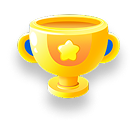
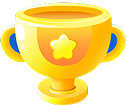
chore: update assets and UI components

diff --git a/js/ui/widgets/CrownPigWidget.js b/js/ui/widgets/CrownPigWidget.js
@@ -6,19 +6,33 @@ var Theme = require('../Theme.js');
 var { SCREEN_WIDTH } = require('../../render.js');
 
 // 布局常量（相对屏幕右上角）
-var TROPHY_SIZE = 42;
-var TROPHY_TOP = 84;
+var TROPHY_SIZE = 44;
+var TROPHY_TOP = 79;
 var TROPHY_RIGHT = 20;
-var STEP_BG_W = 54;
+var STEP_BG_W = 60;
 var STEP_BG_H = 24;
 var STEP_BG_TOP = 120;
 var STEP_BG_RIGHT = 11;
+var STEP_BG_RADIUS = 12;
+
+// 圆角矩形路径（兼容微信小游戏 canvas，不用 ctx.roundRect）
+function roundRect(ctx, x, y, w, h, r) {
+  ctx.beginPath();
+  ctx.moveTo(x + r, y);
+  ctx.lineTo(x + w - r, y);
+  ctx.arcTo(x + w, y, x + w, y + r, r);
+  ctx.lineTo(x + w, y + h - r);
+  ctx.arcTo(x + w, y + h, x + w - r, y + h, r);
+  ctx.lineTo(x + r, y + h);
+  ctx.arcTo(x, y + h, x, y + h - r, r);
+  ctx.lineTo(x, y + r);
+  ctx.arcTo(x, y, x + r, y, r);
+  ctx.closePath();
+}
 
 // 奖杯图片路径
 var IMG_ACTIVE = 'assets/images/levels/leftStep_1.png';
 var IMG_INACTIVE = 'assets/images/levels/leftStep_2.png';
-var IMG_STEP_BG = 'assets/images/levels/leftStep_num.png';
-
 function CrownPigWidget(opts) {
   UIComponent.call(this, {
     x: 0, y: 0,
@@ -43,11 +57,6 @@ function CrownPigWidget(opts) {
   this._imgInactive.src = IMG_INACTIVE;
   this._inactiveLoaded = false;
   this._imgInactive.onload = (function () { this._inactiveLoaded = true; }).bind(this);
-
-  this._imgStepBg = wx.createImage();
-  this._imgStepBg.src = IMG_STEP_BG;
-  this._bgLoaded = false;
-  this._imgStepBg.onload = (function () { this._bgLoaded = true; }).bind(this);
 }
 
 CrownPigWidget.prototype = Object.create(UIComponent.prototype);
@@ -81,6 +90,12 @@ CrownPigWidget.prototype.render = function (ctx) {
   // === 奖杯图标 ===
   // 激活条件：总步数尚未超过规定步数（steps <= crownSteps）
   // 超过后在下一帧变灰（steps > crownSteps）
+  // 奖杯 drop-shadow: 0px 4px 4px rgba(0,0,0,0.25)
+  ctx.shadowColor = 'rgba(0, 0, 0, 0.25)';
+  ctx.shadowBlur = 4;
+  ctx.shadowOffsetX = 0;
+  ctx.shadowOffsetY = 4;
+
   if (this._steps <= this._crownSteps) {
     // 激活状态
     if (this._activeLoaded) {
@@ -93,10 +108,61 @@ CrownPigWidget.prototype.render = function (ctx) {
     }
   }
 
-  // 底框背景图
-  if (this._bgLoaded) {
-    ctx.drawImage(this._imgStepBg, bgX, bgY, STEP_BG_W, STEP_BG_H);
+  // 清除阴影，避免影响后续渲染
+  ctx.shadowColor = 'transparent';
+  ctx.shadowBlur = 0;
+  ctx.shadowOffsetX = 0;
+  ctx.shadowOffsetY = 0;
+
+  // === 步数进度条 ===
+  var remaining = this._crownSteps - this._steps;
+  if (remaining < 0) remaining = 0;
+  var progressRatio = this._crownSteps > 0 ? remaining / this._crownSteps : 0;
+  var fillW = Math.floor(STEP_BG_W * progressRatio);
+
+  ctx.save();
+
+  // === 底框（圆角 12px，仅边框无填充）===
+  roundRect(ctx, bgX, bgY, STEP_BG_W, STEP_BG_H, STEP_BG_RADIUS);
+  ctx.strokeStyle = '#733C29';
+  ctx.lineWidth = 1;
+  ctx.stroke();
+
+  // === 前置填充条（右对齐，从左往右缩短，移动端圆角）===
+  if (fillW > 0) {
+    var fillX = bgX + STEP_BG_W - fillW;  // 右对齐，左端 ← 移动
+    var fillRadius = Math.min(STEP_BG_RADIUS, Math.floor(fillW / 2));
+
+    // clip 到整个底框的圆角区域（右端从 clip 获得圆角）
+    roundRect(ctx, bgX, bgY, STEP_BG_W, STEP_BG_H, STEP_BG_RADIUS);
+    ctx.clip();
+
+    // 前置填充条底色（左端自带圆角）
+    if (fillRadius > 0) {
+      roundRect(ctx, fillX, bgY, fillW, STEP_BG_H, fillRadius);
+      ctx.fillStyle = '#FF9D9D';
+      ctx.fill();
+    } else {
+      ctx.fillStyle = '#FF9D9D';
+      ctx.fillRect(fillX, bgY, fillW, STEP_BG_H);
+    }
+
+    // 顶部 inner shadow（暗部渐变）
+    var topGrad = ctx.createLinearGradient(fillX, bgY, fillX, bgY + 6);
+    topGrad.addColorStop(0, 'rgba(103, 0, 0, 0.30)');
+    topGrad.addColorStop(1, 'rgba(103, 0, 0, 0)');
+    ctx.fillStyle = topGrad;
+    ctx.fillRect(fillX, bgY, fillW, 6);
+
+    // 底部 inner highlight（亮部渐变）
+    var btmGrad = ctx.createLinearGradient(fillX, bgY + STEP_BG_H - 4, fillX, bgY + STEP_BG_H);
+    btmGrad.addColorStop(0, 'rgba(255, 255, 255, 0)');
+    btmGrad.addColorStop(1, 'rgba(255, 255, 255, 0.25)');
+    ctx.fillStyle = btmGrad;
+    ctx.fillRect(fillX, bgY + STEP_BG_H - 4, fillW, 4);
   }
+
+  ctx.restore();
 
   ctx.font = '12px ' + Theme.font.family;
   ctx.fillStyle = '#733C29';

diff --git a/js/core/GameEngine.js b/js/core/GameEngine.js
@@ -84,44 +84,53 @@ class GameEngine {
     // 加载自定义字体
     var _loadFont = function() {
       if (typeof wx === 'undefined') { console.log('[Font] wx 不可用'); return; }
-      if (!wx.loadFont)          { console.log('[Font] wx.loadFont 不可用'); return; }
+      if (!wx.loadFont) { console.log('[Font] wx.loadFont 不可用'); return; }
       if (!wx.getFileSystemManager) { console.log('[Font] FileSystemManager 不可用'); return; }
 
-      var fs = wx.getFileSystemManager();
       var fontName = 'GenSenRounded2TW-H-subset.otf';
-      var codePath = 'assets/font/' + fontName;
-      var dataPath = wx.env.USER_DATA_PATH + '/' + fontName;
+      var srcPath = 'assets/font/' + fontName;
+      var dstPath = wx.env.USER_DATA_PATH + '/' + fontName;
+      var fs = wx.getFileSystemManager();
 
-      // 方案A：直接从代码包加载
-      console.log('[Font] 方案A: 从代码包加载', codePath);
+      // 检查缓存：USER_DATA_PATH 已有文件且大小匹配则直接加载
+      var needCopy = true;
       try {
-        var family = wx.loadFont(codePath);
-        if (family) { Theme.font.family = family; console.log('[Font] 方案A 成功:', family); return; }
-        console.log('[Font] 方案A 返回 null');
-      } catch (e1) { console.log('[Font] 方案A 异常:', e1.message || e1); }
+        var dstStat = fs.statSync(dstPath);
+        if (dstStat.size > 0) needCopy = false;
+      } catch (_) { /* 文件不存在，需要复制 */ }
 
-      // 方案B：复制到 USER_DATA_PATH 后加载
-      console.log('[Font] 方案B: 复制到 USER_DATA_PATH...');
-      try {
-        var fileExists = false;
-        try { fs.accessSync(codePath); fileExists = true; } catch (_) {}
-        console.log('[Font] 代码包文件存在:', fileExists);
-
-        if (fileExists) {
-          var data = fs.readFileSync(codePath);
-          console.log('[Font] 读取代码包成功, size:', data ? data.byteLength || data.length : 'null');
-          fs.writeFileSync(dataPath, data, 'binary');
-          console.log('[Font] 写入 USER_DATA_PATH 成功');
-
-          family = wx.loadFont(dataPath);
-          if (family) { Theme.font.family = family; console.log('[Font] 方案B 成功:', family); return; }
-          console.log('[Font] 方案B wx.loadFont 返回 null');
-        } else {
-          console.log('[Font] 代码包中找不到字体文件，packOptions.include 可能未生效');
+      if (needCopy) {
+        try {
+          var fontData = fs.readFileSync(srcPath);
+          fs.writeFileSync(dstPath, fontData, 'binary');
+          console.log('[Font] 已从代码包复制到 USER_DATA_PATH, size=' + (fontData ? fontData.byteLength || fontData.length : '?'));
+        } catch (e) {
+          console.log('[Font] 复制字体失败:', e.message || e);
+          // 兜底：尝试从代码包直接加载
+          try {
+            var f = wx.loadFont(srcPath);
+            if (f) { Theme.font.family = f; console.log('[Font] 代码包直接加载成功:', f); return; }
+          } catch (_) {}
+          console.log('[Font] 复制和直接加载均失败');
+          return;
         }
-      } catch (e2) { console.log('[Font] 方案B 异常:', e2.message || e2); }
+      }
 
-      console.log('[Font] 所有方案均失败，使用默认字体');
+      // 从 USER_DATA_PATH 加载
+      try {
+        var family = wx.loadFont(dstPath);
+        if (family) {
+          Theme.font.family = family;
+          console.log('[Font] 加载成功, family="' + family + '", path=' + dstPath);
+        } else {
+          // wx.loadFont 返回 null（可能已加载过），使用硬编码族名
+          Theme.font.family = 'GenSenRounded2TW';
+          console.log('[Font] wx.loadFont 返回 null, 使用硬编码族名 GenSenRounded2TW');
+        }
+      } catch (e) {
+        Theme.font.family = 'GenSenRounded2TW';
+        console.log('[Font] wx.loadFont 异常:', e.message || e, ', 使用硬编码族名');
+      }
     };
     _loadFont();
 

diff --git a/js/game/VictoryAnimation.js b/js/game/VictoryAnimation.js
@@ -8,8 +8,8 @@ const FLY_DURATION = 1500;   // 飞行阶段时长 ms
 const FLASH_DURATION = 800;  // 闪烁阶段时长 ms
 
 // 奖杯目标位置（与 CrownPigWidget 对齐）
-const TROPHY_SIZE = 42;
-const TROPHY_TOP = 84;
+const TROPHY_SIZE = 44;
+const TROPHY_TOP = 79;
 const TROPHY_RIGHT = 20;
 const TROPHY_IMG = 'assets/images/levels/leftStep_1.png';
 

diff --git a/js/ui/CheckpointDialog.js b/js/ui/CheckpointDialog.js
@@ -135,7 +135,8 @@ function render(ctx) {
   ctx.fillText('发现存档', databus.screenWidth / 2, p.y + 46);
 
   // 5. 说明文字
-  var stepsText = '您上次玩到了第 ' + (_cpData ? _cpData.steps : '?') + ' 步，是否继续？';
+  var levelNum = _cpData && _cpData.levelName ? parseInt(_cpData.levelName, 10) : '?';
+  var stepsText = '您上次玩到了第 ' + levelNum + ' 关第 ' + (_cpData ? _cpData.steps : '?') + ' 步，是否继续？';
   ctx.fillStyle = '#64748B';
   ctx.font = '15px ' + Theme.font.family + '';
   ctx.textAlign = 'center';